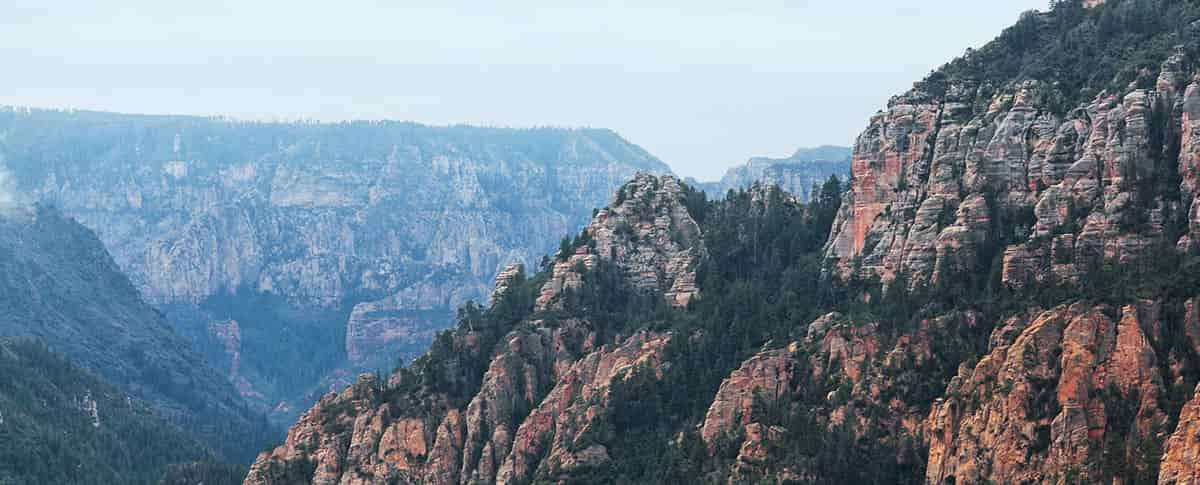
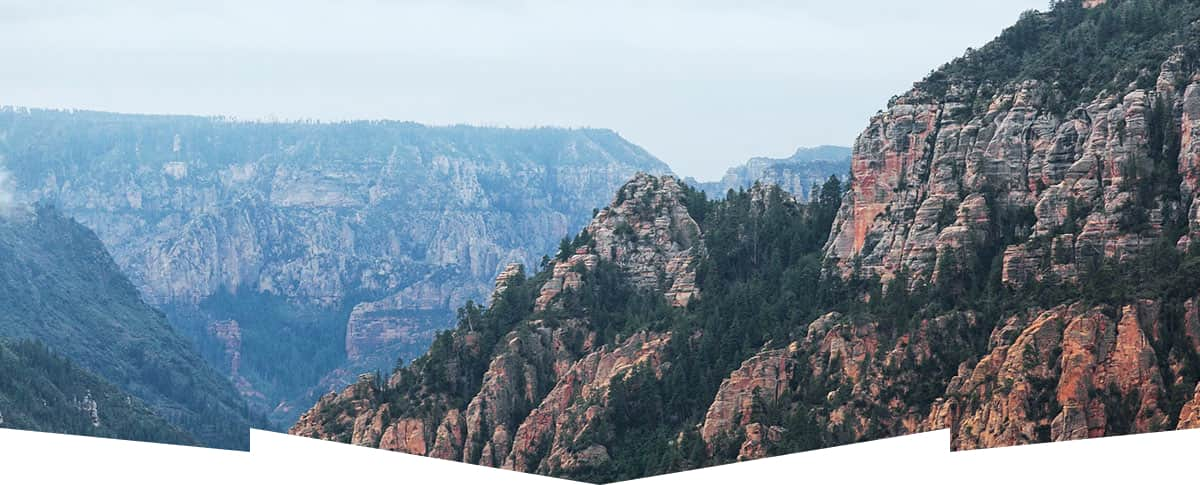
Создает css файл и вносит некоторые корректировки в код
1. Объединила две картинки для background в секцию main-header
2. Удалила лишнюю картинку
3. Исправила ошибки в коде в обоих html файлах

diff --git a/index.html b/index.html
@@ -3,7 +3,7 @@
   <head>
     <meta charset="utf-8">
     <title>HTML Academy: Седона</title>
-    <link href="index.css" rel="stylesheet">
+    <link rel="stylesheet" href="styles/styles.css">
   </head>
   <body>
     <header class="page-header">
@@ -48,9 +48,9 @@
       </section>
       <section class="hero">
         <h3 class="visually-hidden">Информация о городе</h3>
-        <b class="hero-title">
+        <p class="hero-title">
           Седона — небольшой городок в Аризоне, заслуживающий большего!
-        </b>
+        </p>
         <p class="hero-reason">
           Рассмотрим причины, по которым Седона круче, чем Гранд-Каньон!
         </p>
@@ -58,12 +58,13 @@
       <section class="advantages">
         <h2 class="visually-hidden">Преимущества</h2>
         <ul class="advantages-list">
-          <li class="advantages-item">
+          <li class="advantages-item advantages-item_light">
             <h3 class="advantages-title">Настоящий городок</h3>
             <p class="advantages-description">
               Седона — не аттракцион для туристов, там течёт своя жизнь
             </p>
-            <img src="images/advantages/photo-1.jpg" alt="">
+          </li>
+          <li class="advantages-item"><img src="images/advantages/photo-1.jpg" width="800" height="385" alt="">
           </li>
           <li class="advantages-item">
             <h3 class="advantages-title">Небольшая площадь</h3>
@@ -84,7 +85,9 @@
             </p>
           </li>
           <li class="advantages-item">
-            <img src="images/advantages/photo-2.jpg" alt="">
+          <img src="images/advantages/photo-2.jpg" width="800" height="385" alt="">
+          </li>
+          <li class="advantages-item advantages-item_light">
             <h3 class="advantages-title">Там есть мост дьявола</h3>
             <p class="advantages-description">
               Да, по нему можно пройти! Если вы осмелитесь, разумеется

diff --git a/styles/styles.css b/styles/styles.css
@@ -1,0 +1,79 @@
+@font-face {
+  font-family: "PT Sans";
+  font-style: normal;
+  font-weight: 400;
+  src: url("../fonts/ptsans-400.woff2") format("woff2");
+  font-display: swap;
+}
+
+@font-face {
+  font-family: "PT Sans";
+  font-style: normal;
+  font-weight: 700;
+  src: url("../fonts/ptsans-700.woff2") format("woff2");
+  font-display: swap;
+}
+
+body {
+  font-family: "PT Sans", sans-serif;
+}
+
+li {
+  list-style-type: none;
+}
+
+a {
+  text-decoration: none;
+}
+
+.navigation-link {
+  font-weight: 700;
+  font-size: 20px;
+  line-height: 24px;
+  color: #000000;
+}
+
+.main-header {
+  background: url(/images/index-background.jpg);
+  width: 1200px;
+  height: 485px;
+}
+
+.hero {
+  color: #000000;
+}
+
+.hero-title {
+  font-weight: 700;
+  font-size: 30px;
+  line-height: 36px;
+}
+
+.hero-reason {
+  font-weight: 400;
+  font-size: 22px;
+  line-height: 26px;
+}
+
+.advantages-item {
+  width: 400px;
+  height: 385px;
+  color: #000000;
+}
+
+.advantages-item_light {
+  color: #FFFFFF;
+  background: #82B3D3;
+}
+
+.advantages-title {
+  font-weight: 700;
+  font-size: 24px;
+  line-height: 28px;
+}
+
+.advantages-description {
+  font-weight: 400;
+  font-size: 18px;
+  line-height: 21px;
+}

diff --git a/catalog.html b/catalog.html
@@ -3,6 +3,7 @@
 <head>
   <meta charset="utf-8">
   <title>HTML Academy: Седона</title>
+  <link rel="stylesheet" href="styles/styles.css">
 </head>
 <body>
   <header class="page-header">
@@ -182,7 +183,7 @@
       <p class="catalog-cards-item" >Гостиница</p>
       <p class="catalog-cards-price">От 5000 ₽</p>
       <a class="catalog-cards-details" href="#">Подробнее</a>
-      <button class="catalog-cards-search" type="button">В избранное</button>
+      <button class="catalog-cards-search" type="button">В избранном</button>
       <p class="catalog-cards-stars">4 / 5</p>
       <p class="catalog-cards-rating">Рейтинг: 9,2</p>
     </li>
